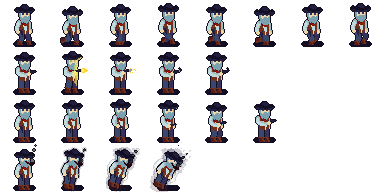
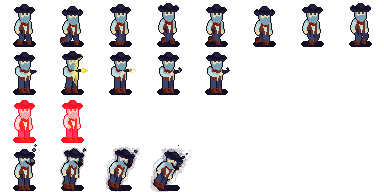
Make the boss turn red when damaged

diff --git a/src/game/entities/mobs/CowboyMob.java b/src/game/entities/mobs/CowboyMob.java
@@ -17,7 +17,7 @@ public final class CowboyMob extends Mob {
     private static final FrameRange FRAME_RANGE =
             new FrameRange(0, 7,
                     8, 12,
-                    16, 21,
+                    16, 17,
                     8, 12,
                     24, 27,
                     -1, -1);
